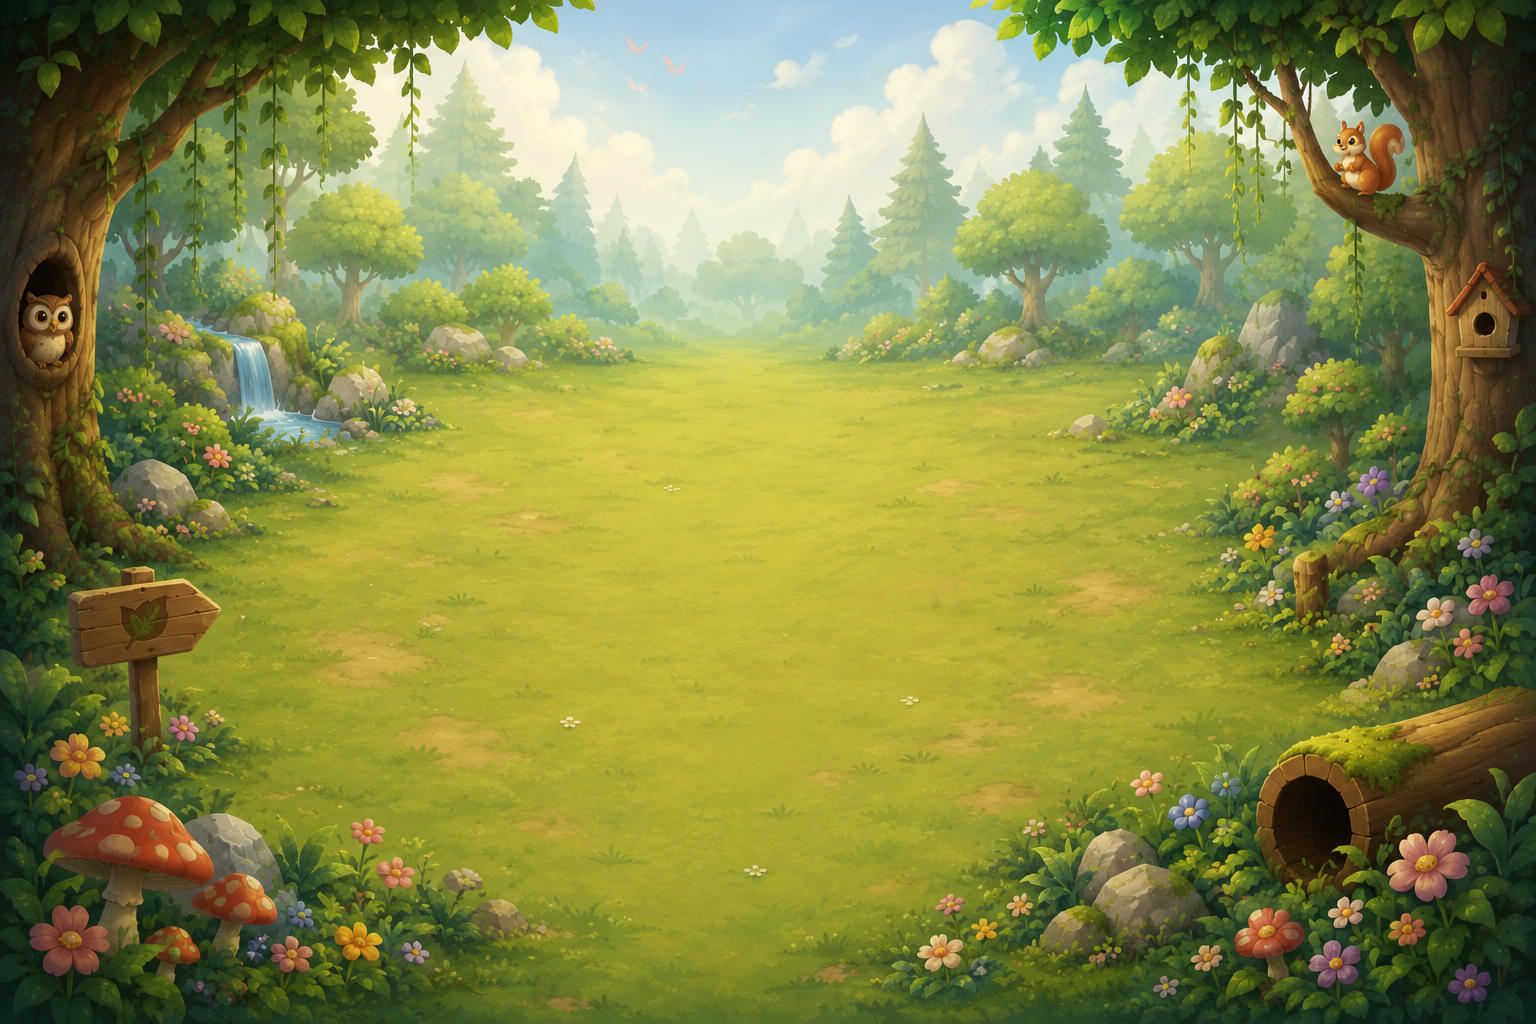
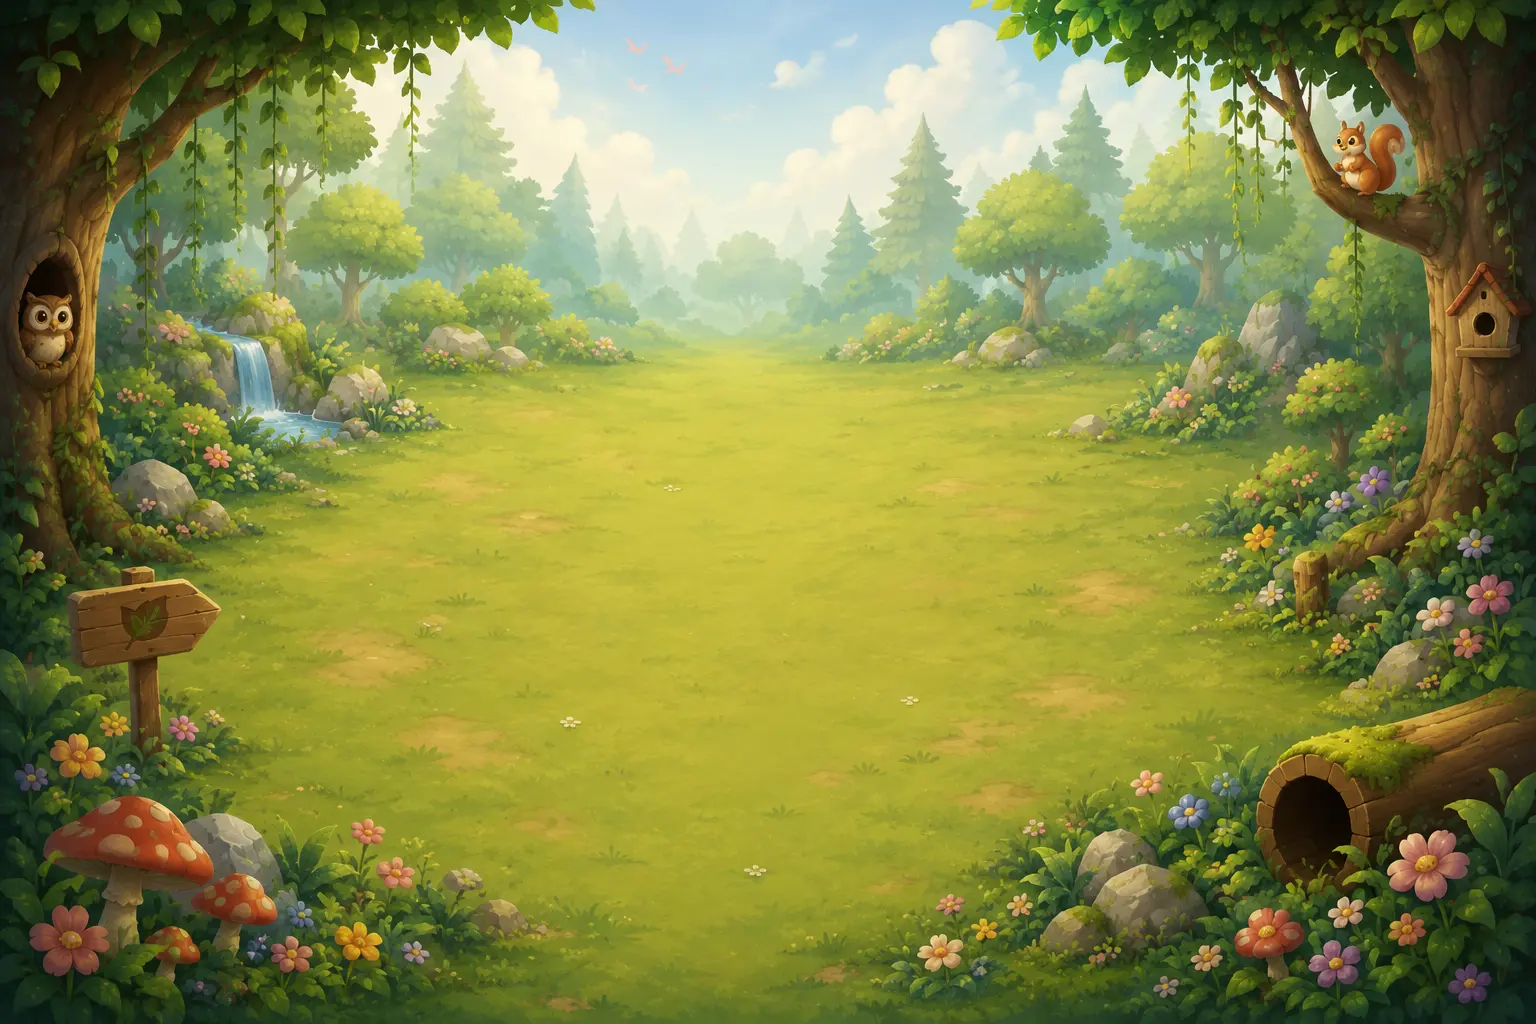
feat: evolui identidade visual da Floresta e Dinossauros

diff --git a/src/style.css b/src/style.css
@@ -139,28 +139,6 @@ header h1 {
   filter: drop-shadow(0 3px 6px rgba(0, 0, 0, 0.12));
 }
 
-/* ── Decorative Elements ── */
-.deco {
-  position: absolute;
-  z-index: 0;
-  pointer-events: none;
-  user-select: none;
-  line-height: 1;
-}
-
-.deco-cloud-1 { top: 6px; left: 10%; font-size: 2.4rem; opacity: 0.85; }
-.deco-cloud-2 { top: 14px; left: 55%; font-size: 2rem; opacity: 0.75; }
-.deco-cloud-3 { top: 4px; left: 78%; font-size: 2.8rem; opacity: 0.7; }
-.deco-sun { top: 8px; right: 12%; font-size: 2rem; }
-
-.deco-tree-1 { bottom: 4%; left: 2%; font-size: 3rem; }
-.deco-tree-2 { bottom: 8%; right: 3%; font-size: 2.6rem; }
-
-.deco-flower-1 { bottom: 16%; left: 14%; font-size: 1.5rem; transform: rotate(-10deg); }
-.deco-flower-2 { bottom: 22%; right: 16%; font-size: 1.4rem; transform: rotate(15deg); }
-.deco-flower-3 { bottom: 10%; left: 8%; font-size: 1.3rem; }
-.deco-flower-4 { bottom: 28%; right: 8%; font-size: 1.6rem; transform: rotate(-5deg); }
-
 /* ═══════════════════════════════════════
    TRACK — Absolute-positioned cells
    ═══════════════════════════════════════ */
@@ -1719,32 +1697,6 @@ body[data-world="floresta-encantada"] #trail-path,
   filter: drop-shadow(0 3px 6px rgba(0, 0, 0, 0.12));
 }
 
-#track-container.mundo-floresta .deco:not(.floresta-deco) {
-  display: none;
-}
-
-.floresta-deco {
-  display: none;
-  position: absolute;
-  z-index: 0;
-  pointer-events: none;
-  user-select: none;
-  line-height: 1;
-}
-
-#track-container.mundo-floresta .floresta-deco {
-  display: block;
-}
-
-.floresta-deco-tree-1 { top: 4%; left: 2%; font-size: 2.8rem; opacity: 0.7; }
-.floresta-deco-tree-2 { top: 8%; right: 3%; font-size: 2.4rem; opacity: 0.6; }
-.floresta-deco-tree-3 { bottom: 2%; right: 6%; font-size: 3rem; opacity: 0.65; }
-.floresta-deco-mushroom-1 { top: 40%; left: 6%; font-size: 1.6rem; opacity: 0.7; }
-.floresta-deco-mushroom-2 { bottom: 20%; left: 12%; font-size: 1.4rem; opacity: 0.6; }
-.floresta-deco-leaf-1 { top: 18%; right: 8%; font-size: 1.8rem; opacity: 0.55; transform: rotate(30deg); }
-.floresta-deco-leaf-2 { bottom: 30%; right: 18%; font-size: 1.6rem; opacity: 0.5; transform: rotate(-20deg); }
-.floresta-deco-flower { bottom: 12%; right: 4%; font-size: 1.5rem; opacity: 0.7; }
-
 /* ── Forest Houses ── */
 
 #track-container.mundo-floresta .casa[data-position="3"],
@@ -1786,45 +1738,26 @@ body[data-world="dinossauros"] {
 }
 
 body[data-world="dinossauros"] #track-container:not(.mundo-floresta) {
-  background: linear-gradient(
-    to bottom,
-    #f4c97a 0%,
-    #e8b85a 20%,
-    #d4a055 40%,
-    #c48a3a 60%,
-    #8b6914 100%
-  );
+  background-image:
+    linear-gradient(rgba(0, 0, 0, 0.35), rgba(0, 0, 0, 0.35)),
+    url("assets/worlds/dinossauros/background.webp"),
+    linear-gradient(to bottom, #f4c97a 0%, #e8b85a 20%, #d4a055 40%, #c48a3a 60%, #8b6914 100%);
+  background-size: cover, cover, auto;
+  background-position: center, center, 0 0;
+  background-repeat: no-repeat, no-repeat, repeat;
   box-shadow:
     inset 0 0 40px rgba(139, 90, 43, 0.15),
     0 6px 30px rgba(0, 0, 0, 0.07);
 }
 
-body[data-world="dinossauros"] #track-container:not(.mundo-floresta) .deco:not(.theme-deco) {
-  display: none;
-}
-
-body[data-world="dinossauros"] .theme-deco {
-  display: block;
-  position: absolute;
-  z-index: 0;
-  pointer-events: none;
-  user-select: none;
-  line-height: 1;
-}
-
 .theme-deco { display: none; }
-
-.deco-palm-1 { bottom: 6%; right: 2%; font-size: 2.8rem; }
-.deco-palm-2 { bottom: 14%; left: 3%; font-size: 2.2rem; }
-.deco-volcano { top: 2%; right: 4%; font-size: 2.6rem; opacity: 0.8; }
-.deco-rock-1 { bottom: 8%; left: 14%; font-size: 1.6rem; }
-.deco-rock-2 { bottom: 20%; right: 12%; font-size: 1.4rem; }
-.deco-dino { bottom: 2%; left: 10%; font-size: 2rem; }
 
 body[data-world="dinossauros"] #track-container:not(.mundo-floresta) #trail-path {
   stroke: #c48a3a;
-  stroke-width: 14;
-  filter: drop-shadow(0 3px 6px rgba(0, 0, 0, 0.12));
+  stroke: url(#path-texture-dinossauros);
+  stroke-width: 12;
+  opacity: 0.75;
+  filter: drop-shadow(0 2px 5px rgba(0, 0, 0, 0.12));
 }
 
 body[data-world="dinossauros"] #track-container:not(.mundo-floresta) .casa {
@@ -1894,17 +1827,6 @@ body[data-world="dinossauros"] .casa-vitoria {
   }
 
   #trail-path { stroke-width: 8; }
-
-  .deco-cloud-1 { font-size: 1.4rem; }
-  .deco-cloud-2 { font-size: 1.2rem; }
-  .deco-cloud-3 { font-size: 1.6rem; }
-  .deco-tree-1 { font-size: 2rem; }
-  .deco-tree-2 { font-size: 1.6rem; }
-  .deco-flower-1 { font-size: 1rem; }
-  .deco-flower-2 { font-size: 0.9rem; }
-  .deco-flower-3 { font-size: 0.9rem; }
-  .deco-flower-4 { font-size: 1rem; }
-  .deco-sun { font-size: 1.2rem; }
 }
 
 /* ── Phone Medium (≤600px) ── */
@@ -1921,17 +1843,6 @@ body[data-world="dinossauros"] .casa-vitoria {
   #trail-path { stroke-width: 7; }
 
   header h1 { font-size: 1.3rem; }
-
-  .deco-cloud-1 { font-size: 1.2rem; }
-  .deco-cloud-2 { font-size: 1rem; }
-  .deco-cloud-3 { font-size: 1.3rem; }
-  .deco-tree-1 { font-size: 1.6rem; }
-  .deco-tree-2 { font-size: 1.3rem; }
-  .deco-flower-1 { font-size: 0.85rem; }
-  .deco-flower-2 { font-size: 0.8rem; }
-  .deco-flower-3 { font-size: 0.8rem; }
-  .deco-flower-4 { font-size: 0.85rem; }
-  .deco-sun { font-size: 1rem; }
 
   /* Draw overlay vertical */
   .draw-content {

diff --git a/src/index.html b/src/index.html
@@ -226,25 +226,6 @@
     <main class="game-layout">
       <section class="board-area">
         <div id="track-container">
-          <div class="deco deco-cloud-1">☁️</div>
-          <div class="deco deco-cloud-2">☁️</div>
-          <div class="deco deco-cloud-3">☁️</div>
-          <div class="deco deco-tree-1">🌳</div>
-          <div class="deco deco-tree-2">🌲</div>
-          <div class="deco deco-flower-1">🌷</div>
-          <div class="deco deco-flower-2">🌻</div>
-          <div class="deco deco-flower-3">🌸</div>
-          <div class="deco deco-flower-4">🌺</div>
-          <div class="deco deco-sun">🌤️</div>
-
-          <div class="deco floresta-deco floresta-deco-tree-1">🌲</div>
-          <div class="deco floresta-deco floresta-deco-tree-2">🌲</div>
-          <div class="deco floresta-deco floresta-deco-tree-3">🌳</div>
-          <div class="deco floresta-deco floresta-deco-mushroom-1">🍄</div>
-          <div class="deco floresta-deco floresta-deco-mushroom-2">🍄</div>
-          <div class="deco floresta-deco floresta-deco-leaf-1">🍃</div>
-          <div class="deco floresta-deco floresta-deco-leaf-2">🍃</div>
-          <div class="deco floresta-deco floresta-deco-flower">🌺</div>
 
           <svg class="path-line" viewBox="0 0 100 100" preserveAspectRatio="none">
             <defs>
@@ -254,6 +235,10 @@
               <pattern id="path-texture-floresta" patternUnits="userSpaceOnUse" width="16" height="16">
                 <rect width="16" height="16" fill="#6d8f5e" />
                 <image href="assets/worlds/floresta/path.webp" width="16" height="16" />
+              </pattern>
+              <pattern id="path-texture-dinossauros" patternUnits="userSpaceOnUse" width="16" height="16">
+                <rect width="16" height="16" fill="#c48a3a" />
+                <image href="assets/worlds/dinossauros/path.webp" width="16" height="16" />
               </pattern>
             </defs>
             <path id="trail-path" fill="none" stroke-linecap="round" stroke-linejoin="round" />